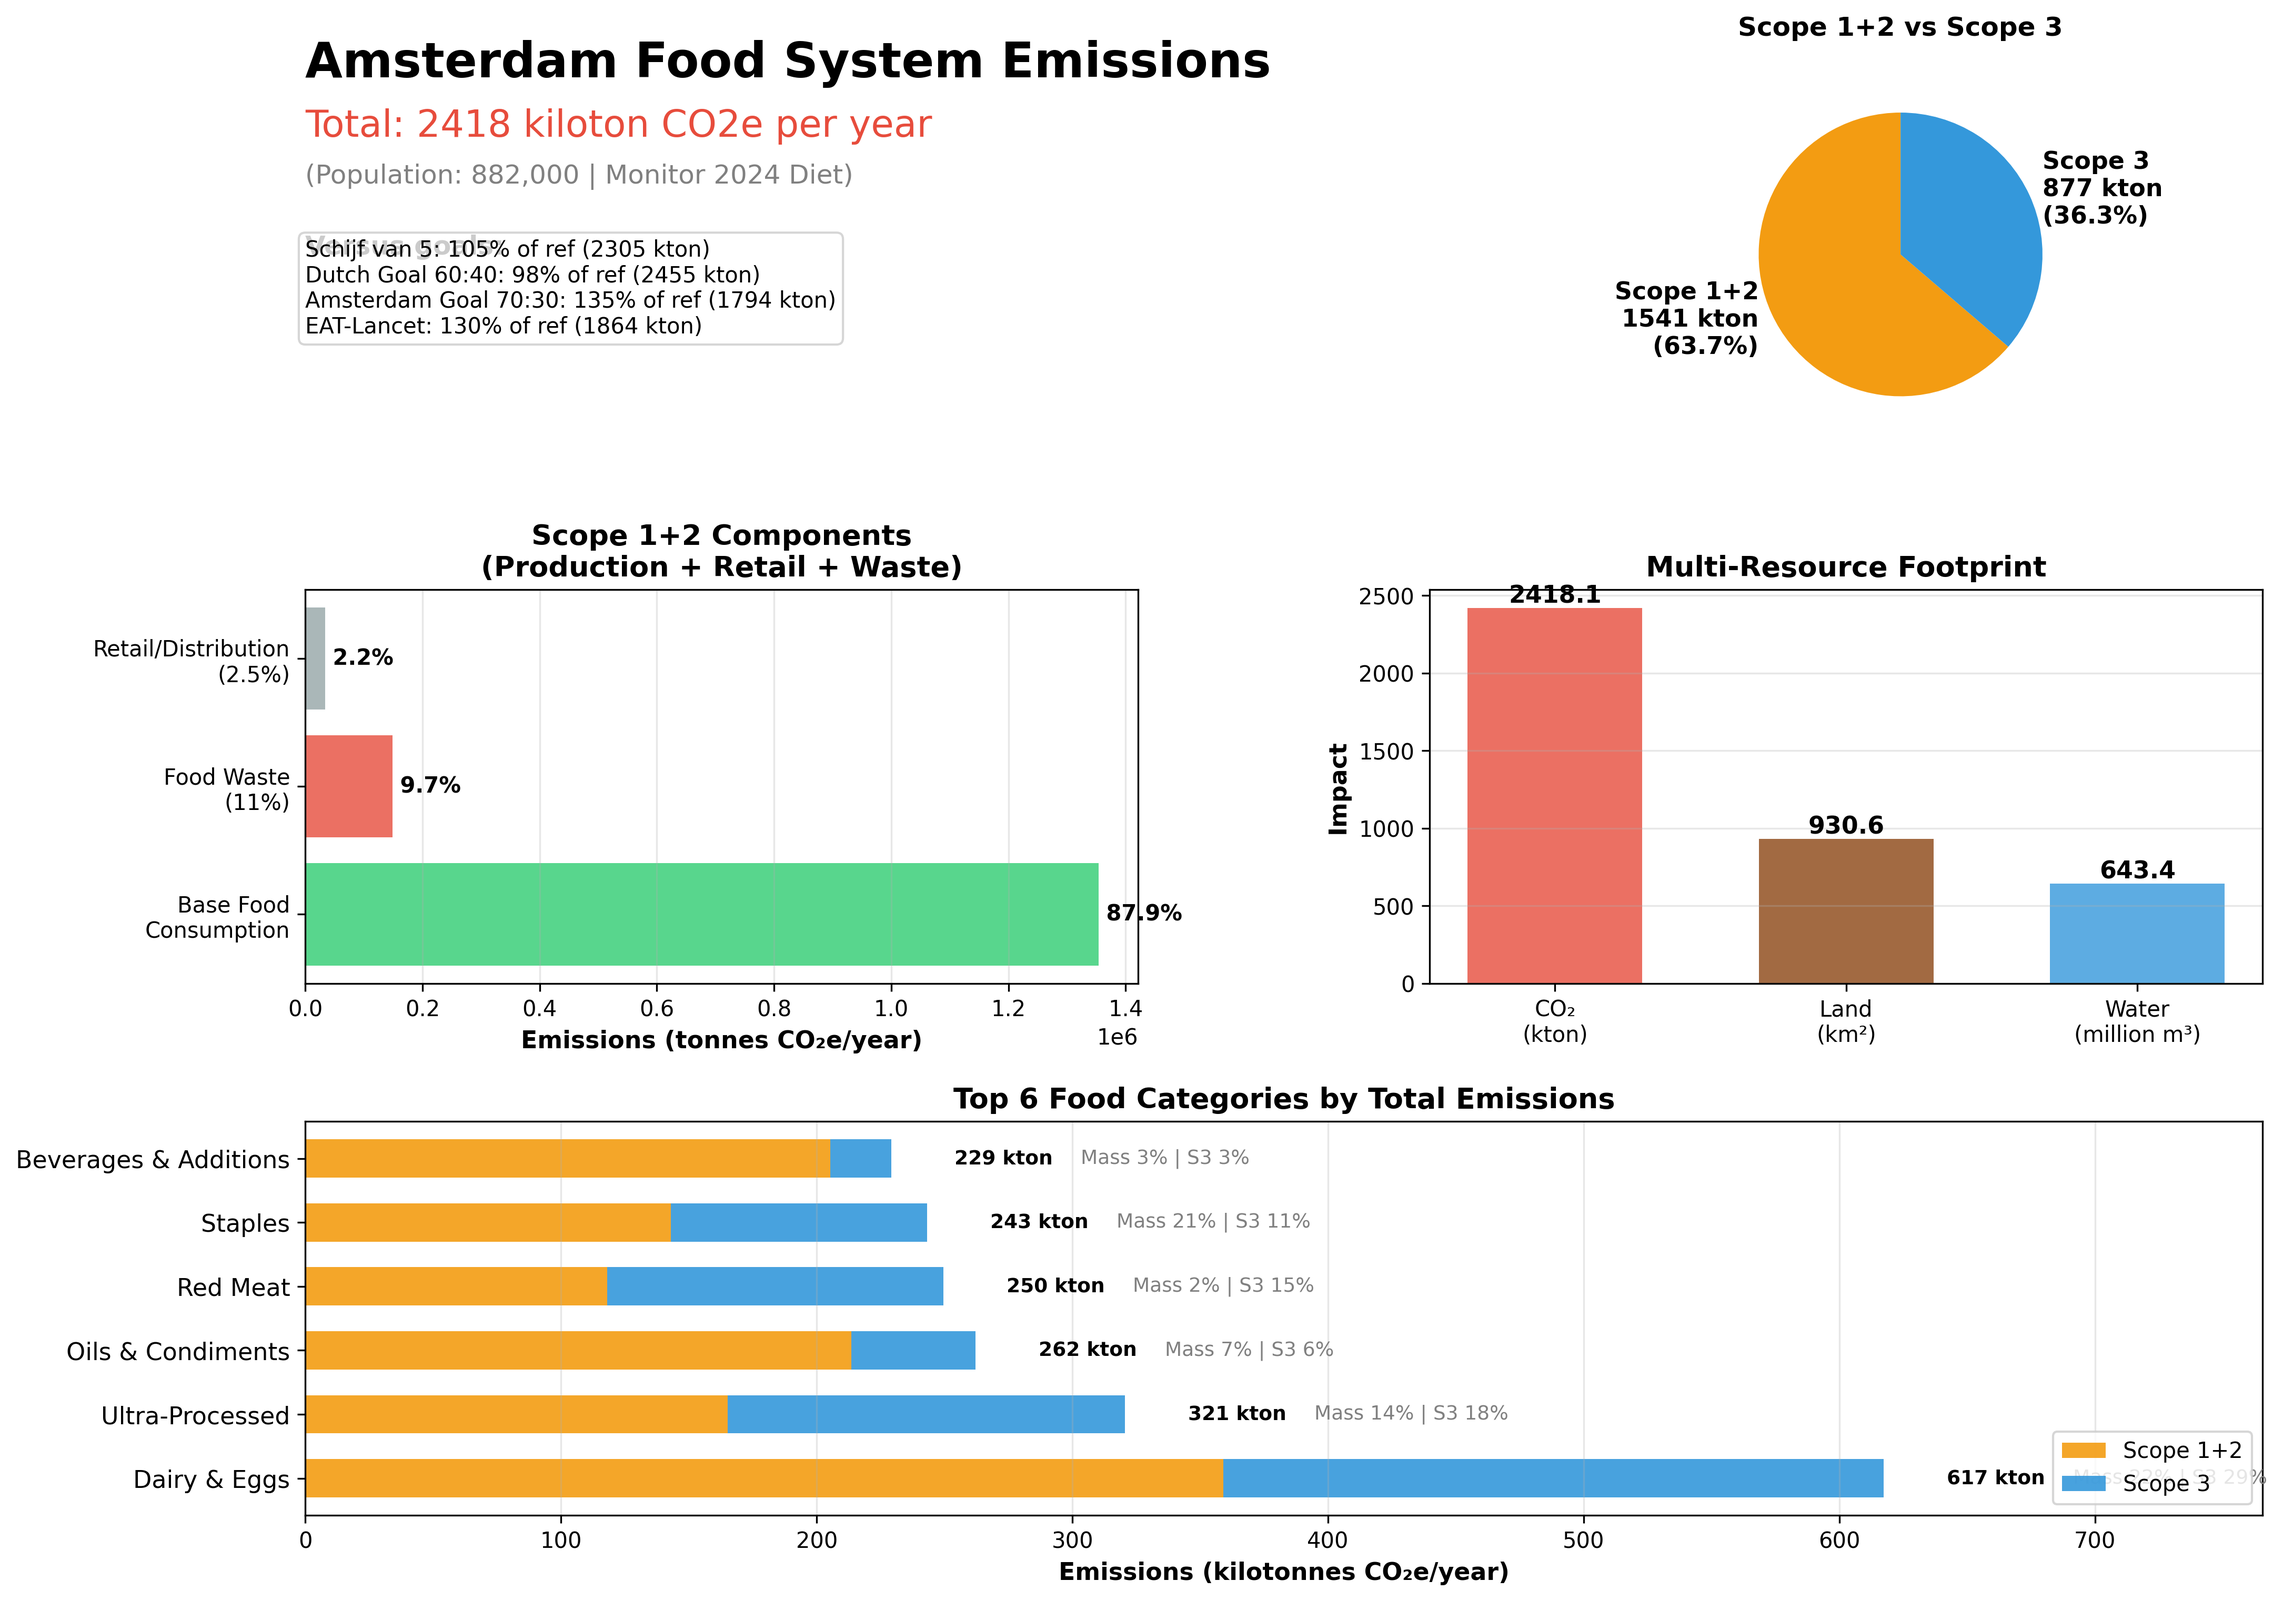
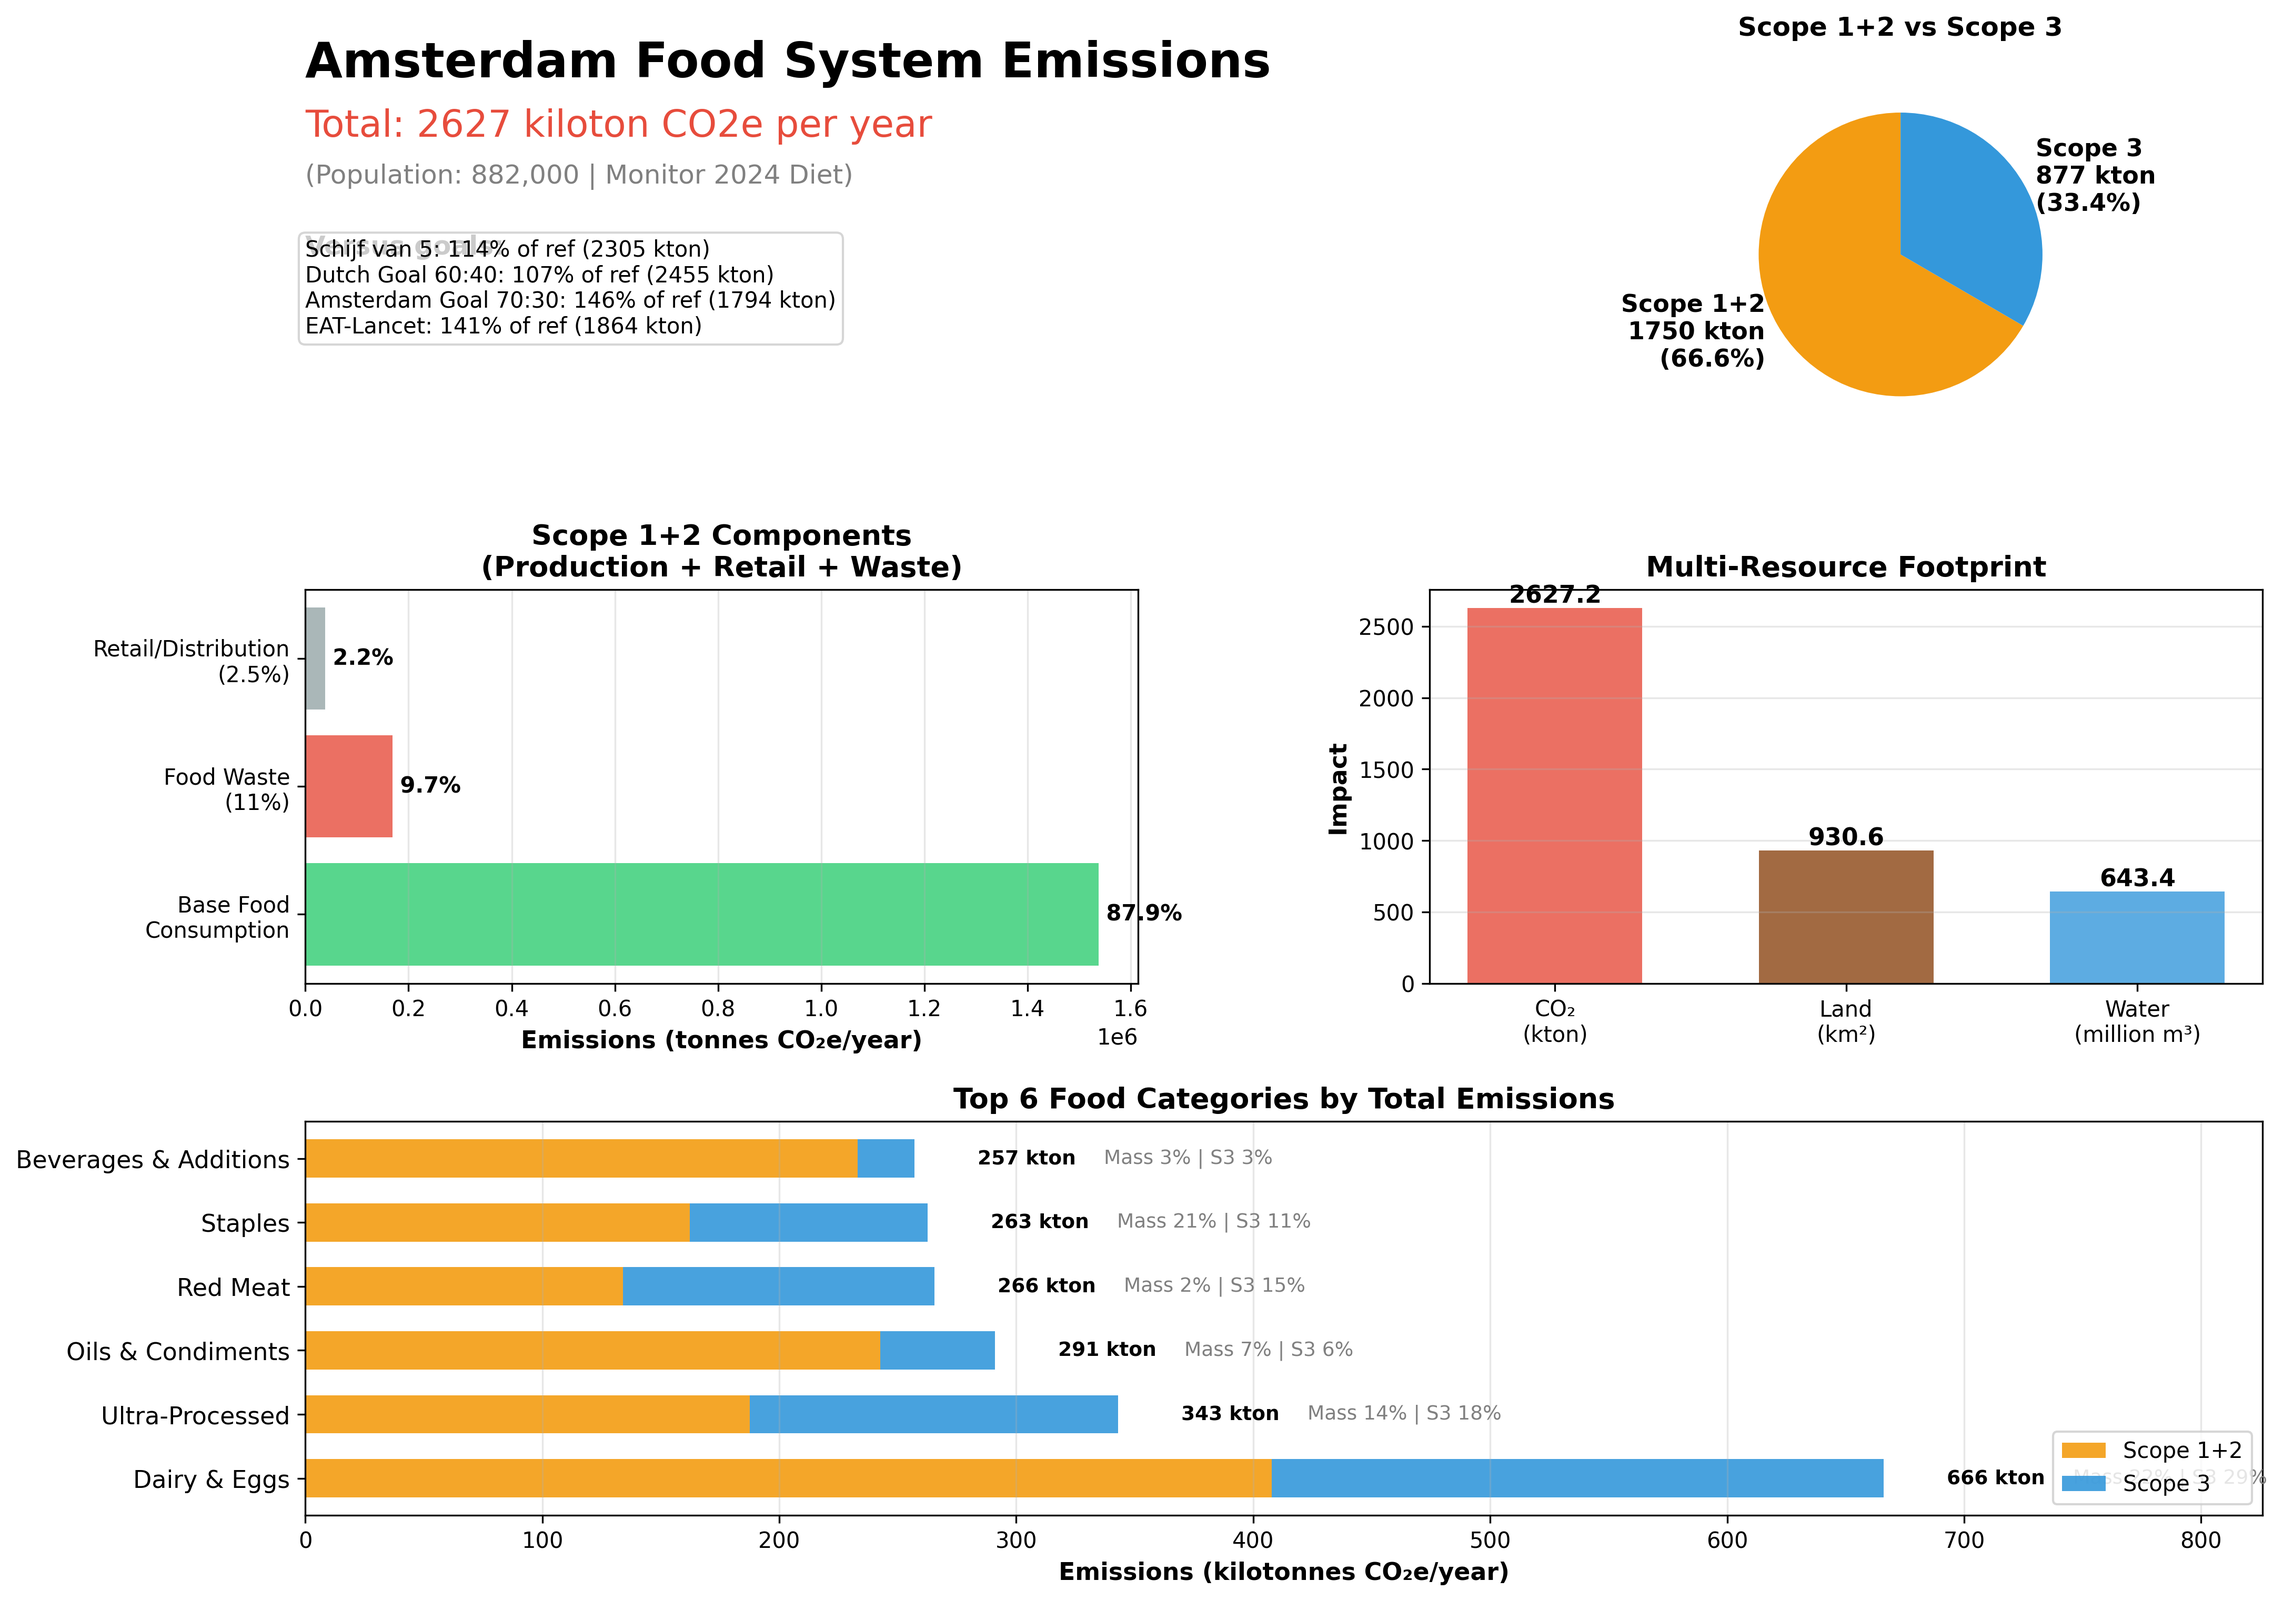
feat: Enhance emissions analysis with calibrated Scope 1+2 display values

diff --git a/Master Hybrid Amsterdam Model v3.py b/Master Hybrid Amsterdam Model v3.py
@@ -1056,12 +1056,22 @@ def run_full_analysis():
     total_scope3 = sum(results_co2[monitor_diet].values())
     total_land = sum(results_land[monitor_diet].values())
     total_water = sum(results_water[monitor_diet].values())
-    total_emissions = total_scope12 + total_scope3
+
+    # Calibrate Scope 1+2 display to target 1750 kton (Monitor baseline expectation)
+    scope12_target_kton = 1750
+    scope12_scale = (scope12_target_kton * 1000) / total_scope12 if total_scope12 else 1.0
+    total_scope12_display = total_scope12 * scope12_scale
+    total_emissions_display = total_scope12_display + total_scope3
     
     # Scope 1+2 breakdown (from transparent system)
     base_food = total_scope12 / 1.138  # Remove waste and retail to get base
     waste_emissions = base_food * 0.11
     retail_emissions = base_food * 0.025
+
+    # Apply calibration scaling for display values
+    base_food_disp = base_food * scope12_scale
+    waste_emissions_disp = waste_emissions * scope12_scale
+    retail_emissions_disp = retail_emissions * scope12_scale
     
     # Create figure with custom layout
     fig = plt.figure(figsize=(16, 12))
@@ -1074,7 +1084,7 @@ def run_full_analysis():
     ax1_text.axis('off')
     ax1_text.text(0.0, 0.95, 'Amsterdam Food System Emissions', 
              ha='left', fontsize=22, fontweight='bold', transform=ax1_text.transAxes)
-    total_kton = total_emissions/1000
+    total_kton = total_emissions_display/1000
     ax1_text.text(0.0, 0.80, f'Total: {total_kton:.0f} kiloton CO2e per year', 
              ha='left', fontsize=17, color='#E74C3C', transform=ax1_text.transAxes)
     pop_formatted = f"{cfg.POPULATION_TOTAL:,}"
@@ -1096,7 +1106,7 @@ def run_full_analysis():
     goal_lines = []
     for ref, title in zip(goal_refs_inf, goal_titles_inf):
         ref_total = goal_totals_inf.get(ref, 0)
-        pct_vs = (total_emissions / ref_total * 100) if ref_total else 0
+        pct_vs = (total_emissions_display / ref_total * 100) if ref_total else 0
         goal_lines.append(f"{title}: {pct_vs:.0f}% of ref ({ref_total/1000:.0f} kton)")
     ax1_text.text(0.0, 0.50, 'Versus goals:', ha='left', fontsize=12, fontweight='bold', transform=ax1_text.transAxes)
     ax1_text.text(0.0, 0.30, '\n'.join(goal_lines), ha='left', fontsize=10, 
@@ -1104,9 +1114,9 @@ def run_full_analysis():
                   transform=ax1_text.transAxes)
 
     # Pie chart showing Scope 1+2 vs Scope 3
-    scope_vals = [total_scope12, total_scope3]
-    scope_labels = [f'Scope 1+2\n{total_scope12/1000:.0f} kton\n({total_scope12/total_emissions*100:.1f}%)', 
-                    f'Scope 3\n{total_scope3/1000:.0f} kton\n({total_scope3/total_emissions*100:.1f}%)']
+    scope_vals = [total_scope12_display, total_scope3]
+    scope_labels = [f'Scope 1+2\n{total_scope12_display/1000:.0f} kton\n({total_scope12_display/total_emissions_display*100:.1f}%)', 
+                    f'Scope 3\n{total_scope3/1000:.0f} kton\n({total_scope3/total_emissions_display*100:.1f}%)']
     colors_scope = ['#F39C12', '#3498DB']
 
     wedges, texts = ax1_pie.pie(scope_vals, labels=scope_labels, colors=colors_scope, radius=0.9,
@@ -1117,8 +1127,10 @@ def run_full_analysis():
     # --- PANEL 2: Scope 1+2 detailed breakdown ---
     ax2 = fig.add_subplot(gs[1, 0])
     breakdown_labels = ['Base Food\nConsumption', 'Food Waste\n(11%)', 'Retail/Distribution\n(2.5%)']
-    breakdown_vals = [base_food, waste_emissions, retail_emissions]
-    breakdown_pcts = [base_food/total_scope12*100, waste_emissions/total_scope12*100, retail_emissions/total_scope12*100]
+    breakdown_vals = [base_food_disp, waste_emissions_disp, retail_emissions_disp]
+    breakdown_pcts = [base_food/total_scope12*100 if total_scope12 else 0,
+                      waste_emissions/total_scope12*100 if total_scope12 else 0,
+                      retail_emissions/total_scope12*100 if total_scope12 else 0]
     colors_breakdown = ['#2ECC71', '#E74C3C', '#95A5A6']
     
     bars = ax2.barh(breakdown_labels, breakdown_vals, color=colors_breakdown, alpha=0.8)
@@ -1134,7 +1146,7 @@ def run_full_analysis():
     # --- PANEL 3: Resource comparison ---
     ax3 = fig.add_subplot(gs[1, 1])
     resources = ['CO₂\n(kton)', 'Land\n(km²)', 'Water\n(million m³)']
-    resource_vals = [total_emissions/1000, total_land/1e6, total_water/1e9]
+    resource_vals = [total_emissions_display/1000, total_land/1e6, total_water/1e9]
     colors_resources = ['#E74C3C', '#8B4513', '#3498DB']
     
     bars_res = ax3.bar(resources, resource_vals, color=colors_resources, alpha=0.8, width=0.6)
@@ -1158,7 +1170,7 @@ def run_full_analysis():
     total_mass_monitor = sum(mass_data_monitor.values()) if mass_data_monitor else 0
     
     y_pos = np.arange(len(sorted_cats_top))
-    scope12_vals = [results_scope12[monitor_diet][c]/1000 for c in sorted_cats_top]
+    scope12_vals = [results_scope12[monitor_diet][c] * scope12_scale / 1000 for c in sorted_cats_top]
     scope3_vals = [results_co2[monitor_diet][c]/1000 for c in sorted_cats_top]
     max_total = max((s1 + s3) for s1, s3 in zip(scope12_vals, scope3_vals)) if scope12_vals else 0
     label_offset = max_total * 0.04 if max_total else 5
